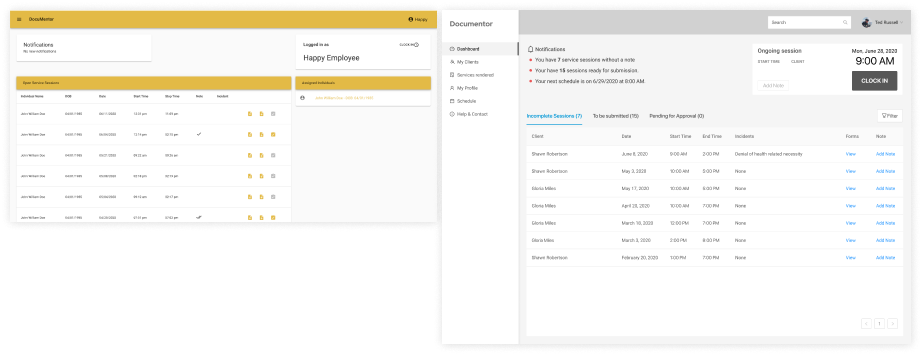
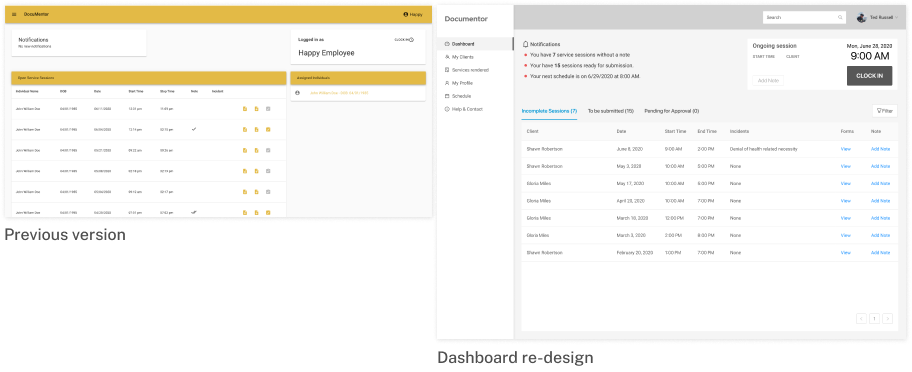
add more images and lightbox functionality

diff --git a/src/documentor.html b/src/documentor.html
@@ -5,6 +5,7 @@
     <script src="https://kit.fontawesome.com/1e3f8182fc.js" crossorigin="anonymous"></script>
     <link rel="stylesheet" href="https://use.typekit.net/zvp4xvv.css" />
     <link rel="stylesheet" type="text/css" href="css/styles.css" />
+    <link rel="stylesheet" type="text/css" href="assets/basicLightbox.min.css" />
     <meta charset="UTF-8" />
     <meta name="viewport" content="width=device-width, initial-scale=1.0" />
     <meta http-equiv="X-UA-Compatible" content="ie=edge" />
@@ -340,62 +341,85 @@
           </div>
           <h3 class="uppercase">Caregiver mid-fidelity wireframes</h3>
           <p>Simplify the dashboard and create a clear visual hierarchy</p>
-          <div class="figure overflow-hidden">
-            <img src="images/" alt="" />
+          <div class="figure">
+            <img src="images/documentor-design-caregiver-dash.png" alt="" />
           </div>
-          <p></p>
-          <div class="figure overflow-hidden">
-            <img src="images/" alt="" />
+          <p>Refactor clock-in and clock-out modals</p>
+          <div class="figure">
+            <img src="images/documentor-caregiver-modals.png" alt="" />
+          </div>
+          <p>Remove nested modals to simplify note form</p>
+          <div class="figure">
+            <img src="images/documentor-design-noteform.png" alt="" />
+          </div>
+          <h3 class="uppercase">Caregiver Mobile-App Solution</h3>
+          <p>Wireframes</p>
+          <div class="figure overflow-x">
+            <img src="images/documentor-mobile-app-wireframe.png" alt="" />
+          </div>
+          <p>High-Fidelity</p>
+          <div class="figure overflow-x">
+            <img src="images/documentor-hifi.png" alt="" style="max-height: unset" />
+          </div>
+          <h3 class="uppercase">Provider/Admin High-Fidelity Designs</h3>
+          <p>Dashboard and sidebar pages</p>
+          <div class="figure overflow-x">
+            <img src="images/documentor-admin-dashboard.png" alt="" />
+          </div>
+          <p>Forms</p>
+          <div class="figure overflow-x">
+            <img src="images/documentor-forms.png" alt="" />
+          </div>
+        </div>
+      </section>
+
+      <!-- Iterations based on usability testing -->
+      <section class="p-container max-width-900">
+        <div class="section-title">
+          <h2>Iterations based on usability testing</h2>
+        </div>
+        <div class="section-content">
+          <p>After conducting usability testing, we did some iteration based on our users feedback.</p>
+          <h4>The hamburger menu</h4>
+          <p>
+            This was a surprising discovery for us and one that we didn’t really expect. It was a typical case of “you
+            are not your user.” For the internet savvy generation, this might be a typical element of interaction but
+            for our demographic, it was an unfamiliar symbol. The first symbol that we used was not the usual
+            bread-meat-bread hamburger menu. We found that our users didn’t really know what the symbol meant. It also
+            kind of looked like a logo so they didn’t know to click on it that‘s why we went back to the typical equal
+            horizontal lines.
+          </p>
+          <div class="figure overflow-x">
+            <div class="figure-img">
+              <img id="menu-img" src="" alt="" />
+            </div>
+          </div>
+          <h4>Vehicle interaction</h4>
+          <p>
+            Instead of showing just a list of the name of the vehicles that the user would need to click for them to see
+            the details, we designed an interaction where all the details can be shown and hidden by
+            expanding/collapsing each vehicle without going to another page.
+          </p>
+          <div class="figure overflow-x">
+            <div class="figure-img">
+              <img id="addvehicle-img" src="" alt="" />
+            </div>
+          </div>
+          <h4>Directions page</h4>
+          <p>
+            To help users remember what vehicle that they are routing with, we added some sort of breadcrumb so they can
+            see the vehicle they are using for that route. It was also important to show the obstacles that are being
+            avoided like low clearances and dirt roads so that the user is aware of the value they get when they use the
+            app.
+          </p>
+          <div class="figure overflow-x">
+            <div class="figure-img">
+              <img src="" alt="" />
+            </div>
           </div>
         </div>
       </section>
       <div hidden>
-        <!-- Iterations based on usability testing -->
-        <section class="p-container max-width-900">
-          <div class="section-title">
-            <h2>Iterations based on usability testing</h2>
-          </div>
-          <div class="section-content">
-            <p>After conducting usability testing, we did some iteration based on our users feedback.</p>
-            <h4>The hamburger menu</h4>
-            <p>
-              This was a surprising discovery for us and one that we didn’t really expect. It was a typical case of “you
-              are not your user.” For the internet savvy generation, this might be a typical element of interaction but
-              for our demographic, it was an unfamiliar symbol. The first symbol that we used was not the usual
-              bread-meat-bread hamburger menu. We found that our users didn’t really know what the symbol meant. It also
-              kind of looked like a logo so they didn’t know to click on it that‘s why we went back to the typical equal
-              horizontal lines.
-            </p>
-            <div class="figure overflow-x">
-              <div class="figure-img">
-                <img id="menu-img" src="images/" alt="" />
-              </div>
-            </div>
-            <h4>Vehicle interaction</h4>
-            <p>
-              Instead of showing just a list of the name of the vehicles that the user would need to click for them to
-              see the details, we designed an interaction where all the details can be shown and hidden by
-              expanding/collapsing each vehicle without going to another page.
-            </p>
-            <div class="figure overflow-x">
-              <div class="figure-img">
-                <img id="addvehicle-img" src="images/" alt="" />
-              </div>
-            </div>
-            <h4>Directions page</h4>
-            <p>
-              To help users remember what vehicle that they are routing with, we added some sort of breadcrumb so they
-              can see the vehicle they are using for that route. It was also important to show the obstacles that are
-              being avoided like low clearances and dirt roads so that the user is aware of the value they get when they
-              use the app.
-            </p>
-            <div class="figure overflow-x">
-              <div class="figure-img">
-                <img src="images/" alt="" />
-              </div>
-            </div>
-          </div>
-        </section>
         <!-- Learnings and takeaways -->
         <section class="p-container max-width-900">
           <div class="section-title">
@@ -446,8 +470,10 @@
       <case-studies-list mini class="othercases"></case-studies-list>
     </div>
     <footer-connect></footer-connect>
+    <script src="assets/basicLightbox.min.js"></script>
     <script src="js/nav-bar.js"></script>
     <script src="js/footer-connect.js"></script>
     <script src="js/case-studies-list.js"></script>
+    <script src="js/lightbox.js"></script>
   </body>
 </html>

diff --git a/src/assets/basicLightbox.min.js b/src/assets/basicLightbox.min.js
@@ -1,0 +1,1 @@
+!function(e){if("object"==typeof exports&&"undefined"!=typeof module)module.exports=e();else if("function"==typeof define&&define.amd)define([],e);else{("undefined"!=typeof window?window:"undefined"!=typeof global?global:"undefined"!=typeof self?self:this).basicLightbox=e()}}((function(){return function e(n,t,o){function r(c,u){if(!t[c]){if(!n[c]){var s="function"==typeof require&&require;if(!u&&s)return s(c,!0);if(i)return i(c,!0);var a=new Error("Cannot find module '"+c+"'");throw a.code="MODULE_NOT_FOUND",a}var l=t[c]={exports:{}};n[c][0].call(l.exports,(function(e){return r(n[c][1][e]||e)}),l,l.exports,e,n,t,o)}return t[c].exports}for(var i="function"==typeof require&&require,c=0;c<o.length;c++)r(o[c]);return r}({1:[function(e,n,t){"use strict";Object.defineProperty(t,"__esModule",{value:!0}),t.create=t.visible=void 0;var o=function(e){var n=arguments.length>1&&void 0!==arguments[1]&&arguments[1],t=document.createElement("div");return t.innerHTML=e.trim(),!0===n?t.children:t.firstChild},r=function(e,n){var t=e.children;return 1===t.length&&t[0].tagName===n},i=function(e){return null!=(e=e||document.querySelector(".basicLightbox"))&&!0===e.ownerDocument.body.contains(e)};t.visible=i;t.create=function(e,n){var t=function(e,n){var t=o('\n\t\t<div class="basicLightbox '.concat(n.className,'">\n\t\t\t<div class="basicLightbox__placeholder" role="dialog"></div>\n\t\t</div>\n\t')),i=t.querySelector(".basicLightbox__placeholder");e.forEach((function(e){return i.appendChild(e)}));var c=r(i,"IMG"),u=r(i,"VIDEO"),s=r(i,"IFRAME");return!0===c&&t.classList.add("basicLightbox--img"),!0===u&&t.classList.add("basicLightbox--video"),!0===s&&t.classList.add("basicLightbox--iframe"),t}(e=function(e){var n="string"==typeof e,t=e instanceof HTMLElement==1;if(!1===n&&!1===t)throw new Error("Content must be a DOM element/node or string");return!0===n?Array.from(o(e,!0)):"TEMPLATE"===e.tagName?[e.content.cloneNode(!0)]:Array.from(e.children)}(e),n=function(){var e=arguments.length>0&&void 0!==arguments[0]?arguments[0]:{};if(null==(e=Object.assign({},e)).closable&&(e.closable=!0),null==e.className&&(e.className=""),null==e.onShow&&(e.onShow=function(){}),null==e.onClose&&(e.onClose=function(){}),"boolean"!=typeof e.closable)throw new Error("Property `closable` must be a boolean");if("string"!=typeof e.className)throw new Error("Property `className` must be a string");if("function"!=typeof e.onShow)throw new Error("Property `onShow` must be a function");if("function"!=typeof e.onClose)throw new Error("Property `onClose` must be a function");return e}(n)),c=function(e){return!1!==n.onClose(u)&&function(e,n){return e.classList.remove("basicLightbox--visible"),setTimeout((function(){return!1===i(e)||e.parentElement.removeChild(e),n()}),410),!0}(t,(function(){if("function"==typeof e)return e(u)}))};!0===n.closable&&t.addEventListener("click",(function(e){e.target===t&&c()}));var u={element:function(){return t},visible:function(){return i(t)},show:function(e){return!1!==n.onShow(u)&&function(e,n){return document.body.appendChild(e),setTimeout((function(){requestAnimationFrame((function(){return e.classList.add("basicLightbox--visible"),n()}))}),10),!0}(t,(function(){if("function"==typeof e)return e(u)}))},close:c};return u}},{}]},{},[1])(1)}));

diff --git a/src/assets/basicLightbox.min.css b/src/assets/basicLightbox.min.css
@@ -1,0 +1,1 @@
+.basicLightbox{position:fixed;display:flex;justify-content:center;align-items:center;top:0;left:0;width:100%;height:100vh;background:rgba(0,0,0,.8);opacity:.01;transition:opacity .4s ease;z-index:1000;will-change:opacity}.basicLightbox--visible{opacity:1}.basicLightbox__placeholder{max-width:100%;transform:scale(.9);transition:transform .4s ease;z-index:1;will-change:transform}.basicLightbox__placeholder>iframe:first-child:last-child,.basicLightbox__placeholder>img:first-child:last-child,.basicLightbox__placeholder>video:first-child:last-child{display:block;position:absolute;top:0;right:0;bottom:0;left:0;margin:auto;max-width:95%;max-height:95%}.basicLightbox__placeholder>iframe:first-child:last-child,.basicLightbox__placeholder>video:first-child:last-child{pointer-events:auto}.basicLightbox__placeholder>img:first-child:last-child,.basicLightbox__placeholder>video:first-child:last-child{width:auto;height:auto}.basicLightbox--iframe .basicLightbox__placeholder,.basicLightbox--img .basicLightbox__placeholder,.basicLightbox--video .basicLightbox__placeholder{width:100%;height:100%;pointer-events:none}.basicLightbox--visible .basicLightbox__placeholder{transform:scale(1)}

diff --git a/src/rvway.html b/src/rvway.html
@@ -5,6 +5,7 @@
     <script src="https://kit.fontawesome.com/1e3f8182fc.js" crossorigin="anonymous"></script>
     <link rel="stylesheet" href="https://use.typekit.net/zvp4xvv.css" />
     <link rel="stylesheet" type="text/css" href="css/styles.css" />
+    <link rel="stylesheet" type="text/css" href="assets/basicLightbox.min.css" />
     <meta charset="UTF-8" />
     <meta name="viewport" content="width=device-width, initial-scale=1.0" />
     <meta http-equiv="X-UA-Compatible" content="ie=edge" />
@@ -425,8 +426,10 @@
       <case-studies-list mini class="othercases"></case-studies-list>
     </div>
     <footer-connect></footer-connect>
+    <script src="assets/basicLightbox.min.js"></script>
     <script src="js/nav-bar.js"></script>
     <script src="js/footer-connect.js"></script>
     <script src="js/case-studies-list.js"></script>
+    <script src="js/lightbox.js"></script>
   </body>
 </html>

diff --git a/src/js/lightbox.js b/src/js/lightbox.js
@@ -1,0 +1,13 @@
+const allImages = document.querySelectorAll('.figure img, .case-study-img img')
+allImages.forEach(
+  img =>
+    (img.onclick = () => {
+      basicLightbox
+        .create(
+          `
+				<img src="${img.src}">
+			`
+        )
+        .show()
+    })
+)
